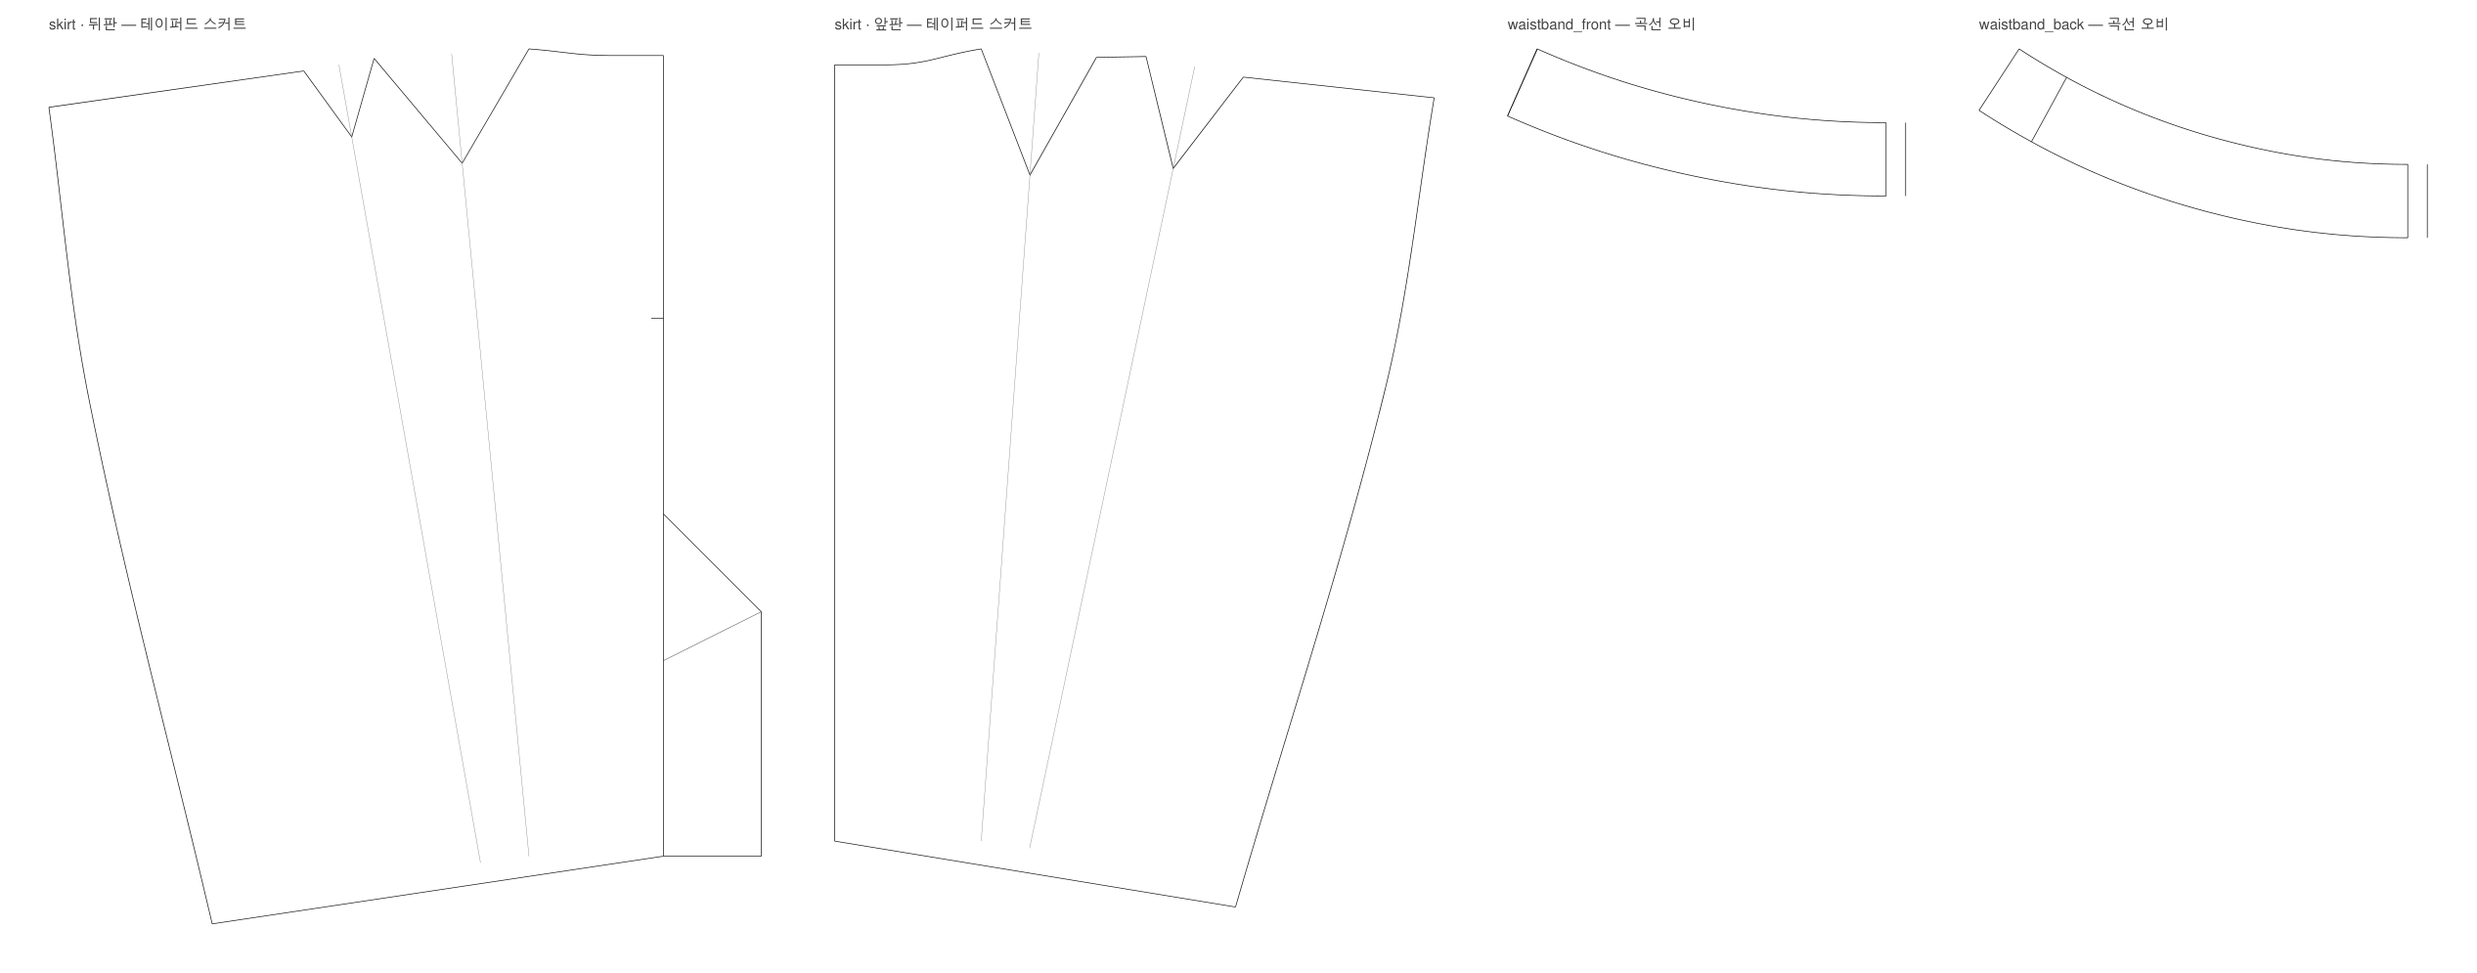
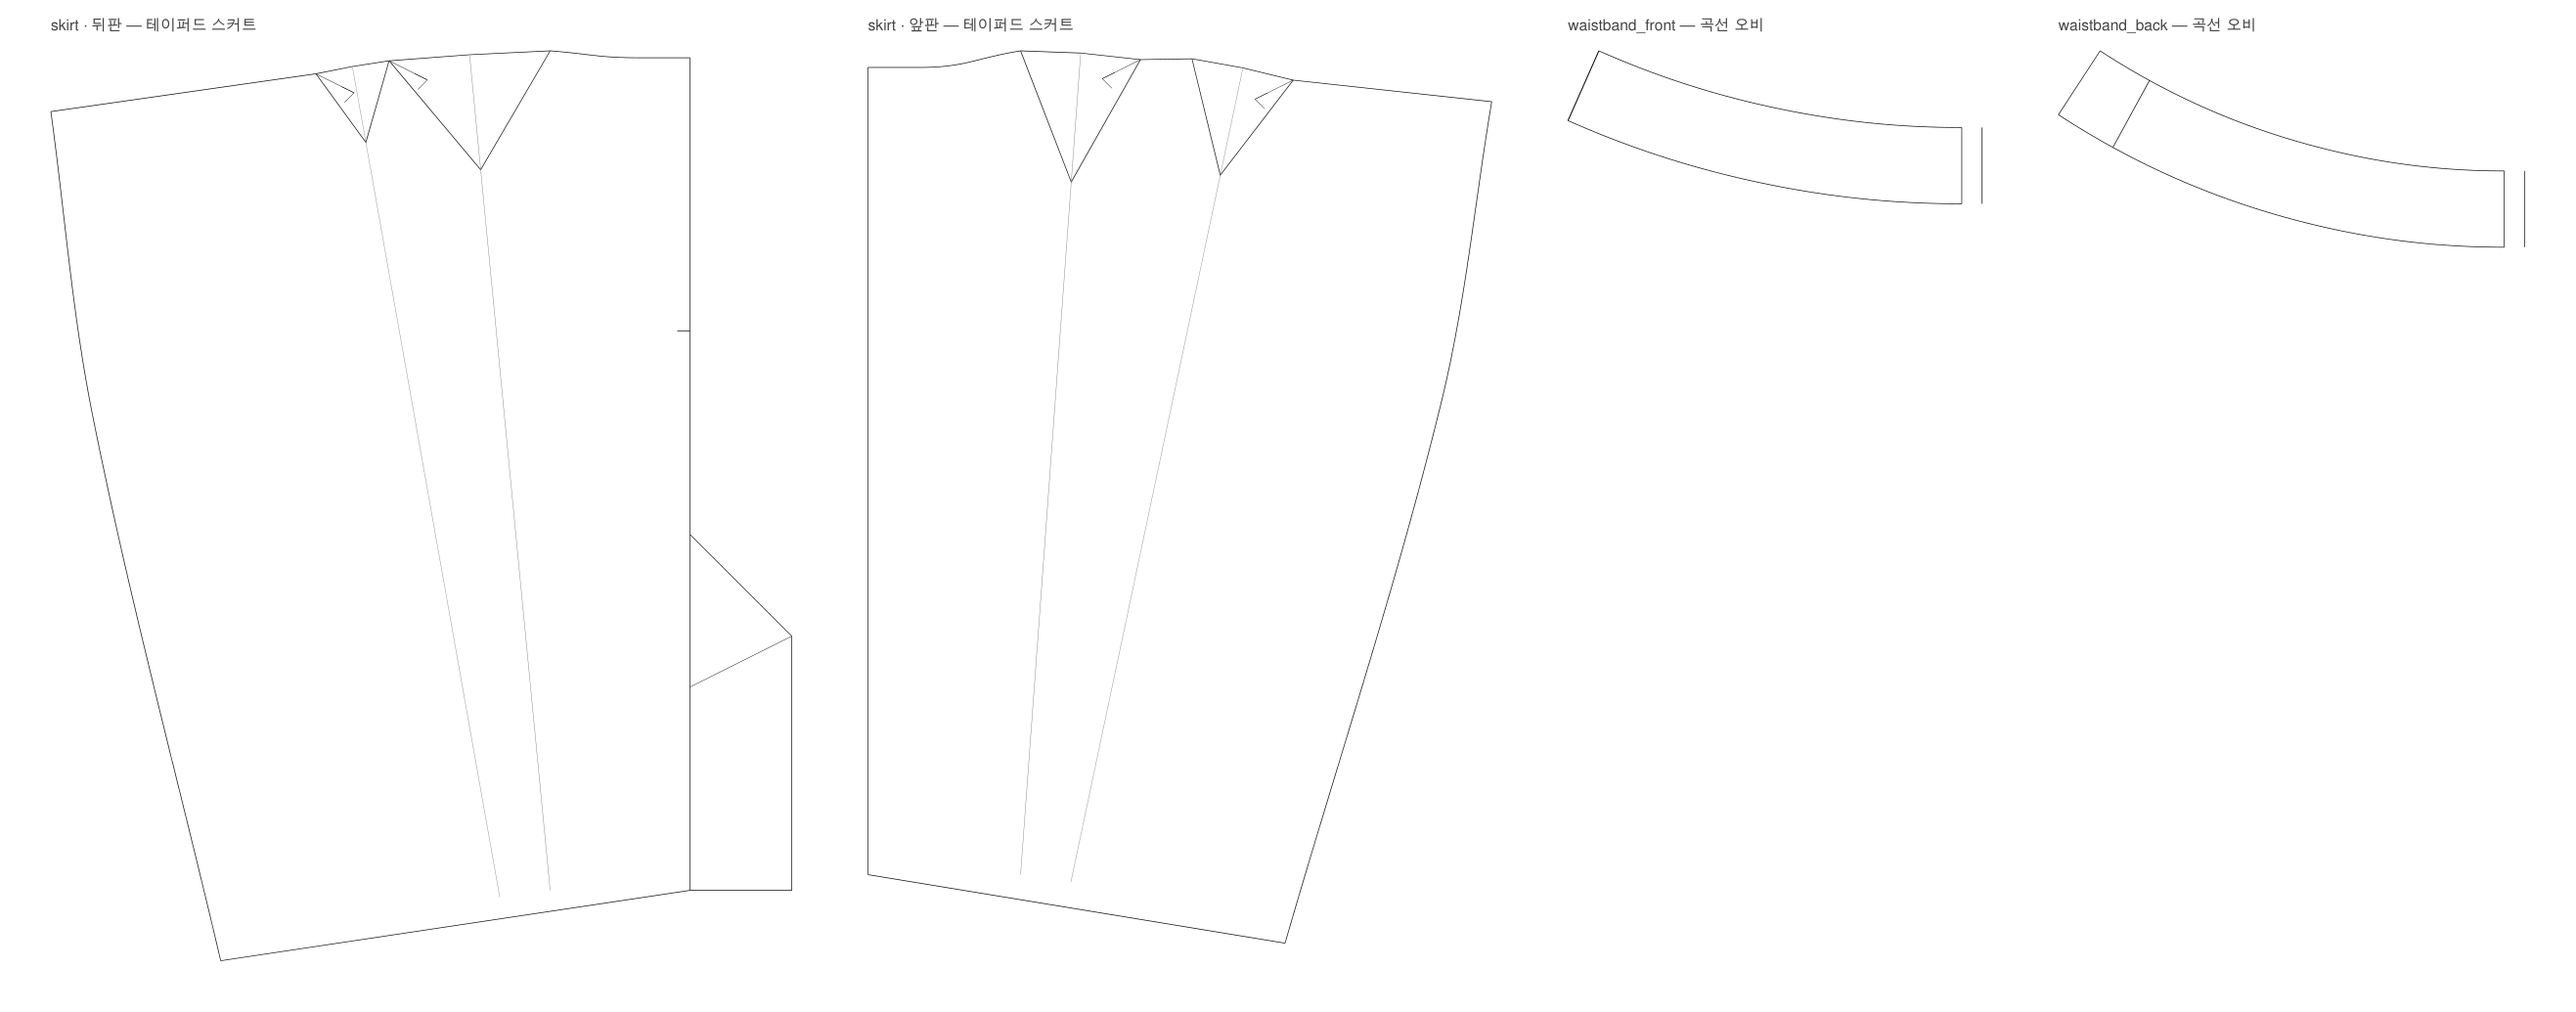
턱 위 허리선을 잇고 접는 방향 화살표 추가
턱 자리에서 허리선이 끊겨 있던 것을 고친다. 두 다리는 회전축에서 같은
거리에 있으므로 그 반지름의 호로 잇고, 턱을 접으면 호가 턱선에서 반전되어
겹치면서 허리선이 오비선과 이어진다. 접기 검증을 테스트로 넣었다
(앞턱1·앞턱2·뒤턱2 오차 0, 뒤턱1 은 흡수한 다트 1" 만큼만 남음).
접는 방향 화살표를 앞은 앞중심 쪽, 뒤는 뒤중심 쪽으로 그린다.

Claude-Session: https://claude.ai/code/session_01BTGURSN7CBNWrynVskcNog

diff --git a/tests/test_core.py b/tests/test_core.py
@@ -388,6 +388,27 @@ class Tapered(unittest.TestCase):
         self.assertLess(hem, hip)  # 테이퍼드 — 아래로 모인다
         self.assertLess(2 * hem, 36.0)  # 힙본 밑단보다 좁다
 
+    def test_folding_a_tuck_lands_on_the_other_leg(self):
+        """턱을 접으면 바깥 다리가 안쪽 다리에 딱 맞아야 허리선이 오비선과 이어진다."""
+        p, m = self.res.points, self.res.measurements
+        for outer, pivot, ang, inner, sign in [("FT1_R", "P1_B", "앞턱1각", "FT1_L", -1),
+                                               ("FT2_R", "P2_B", "앞턱2각", "FT2_L", -1),
+                                               ("BT2_L", "Q2_B", "뒤턱2각", "BT2_R", 1)]:
+            c = p[pivot]
+            self.assertAlmostEqual((c + (p[outer] - c).rotate(sign * m[ang])).dist(p[inner]), 0, places=6)
+
+    def test_back_first_tuck_absorbs_the_dart(self):
+        """뒤턱1 은 힙본의 뒤다트 1" 도 함께 접는다."""
+        p, m = self.res.points, self.res.measurements
+        c = p["Q1_B"]
+        folded = c + (p["BT1_L"] - c).rotate(m["뒤턱1각"])
+        self.assertAlmostEqual(folded.dist(p["BT1_R"]), m["뒤다트흡수"], places=3)
+
+    def test_tuck_waist_arc_is_at_leg_radius(self):
+        """턱 위 허리선은 다리와 같은 반지름의 호 — 접으면 서로 겹친다."""
+        p = self.res.points
+        self.assertAlmostEqual(p["P1_B"].dist(p["FT1_P"]), p["P1_B"].dist(p["FT1_L"]), places=6)
+
     def test_tuck_length_scales_with_amount(self):
         p, m = self.res.points, self.res.measurements
         self.assertAlmostEqual(p["FT1_M"].dist(p["FT1_TIP"]), m["앞턱1량"] * m["턱길이비"], places=6)

diff --git a/docs/drafting_notes.md b/docs/drafting_notes.md
@@ -126,6 +126,8 @@
 - 턱 쪽에 이세 1/8 을 넣으면 턱이 벌어지는 것을 줄일 수 있다. 턱이 접히는 산은 허리선과 맞춘다
 - 밑단 옆솔기를 1/8~3/8 들이면 밑으로 모이는 테이퍼드 특유의 실루엣이 강조된다
 - 기장이 짧으면 오마진 형태가 잘 드러나지 않는다 — 길수록 위는 넓고 아래는 좁은 실루엣이 강조된다
+- **턱 위 허리선은 반드시 이어져 있어야 한다.** 두 다리는 회전축에서 같은 거리에 있으므로 그 반지름의 호를 그린다. 턱을 접으면 호가 턱선에서 반전되어 양쪽이 겹치고 **허리선이 오비선에 딱 맞는다** (테스트로 확인)
+- **턱 접는 방향을 화살표로 표기한다** (앞은 앞중심 쪽, 뒤는 뒤중심 쪽)
 - 규칙 계산: 턱 접은 허리 32.0 (힙본 31.6), 엉덩이 46.0 (표기 45), 밑단 34.9 (힙본 36 → 좁아짐)
 
 규칙 파일: `blocks/skirt_tapered.yaml`, 스타일 `styles/tapered_skirt.yaml`
